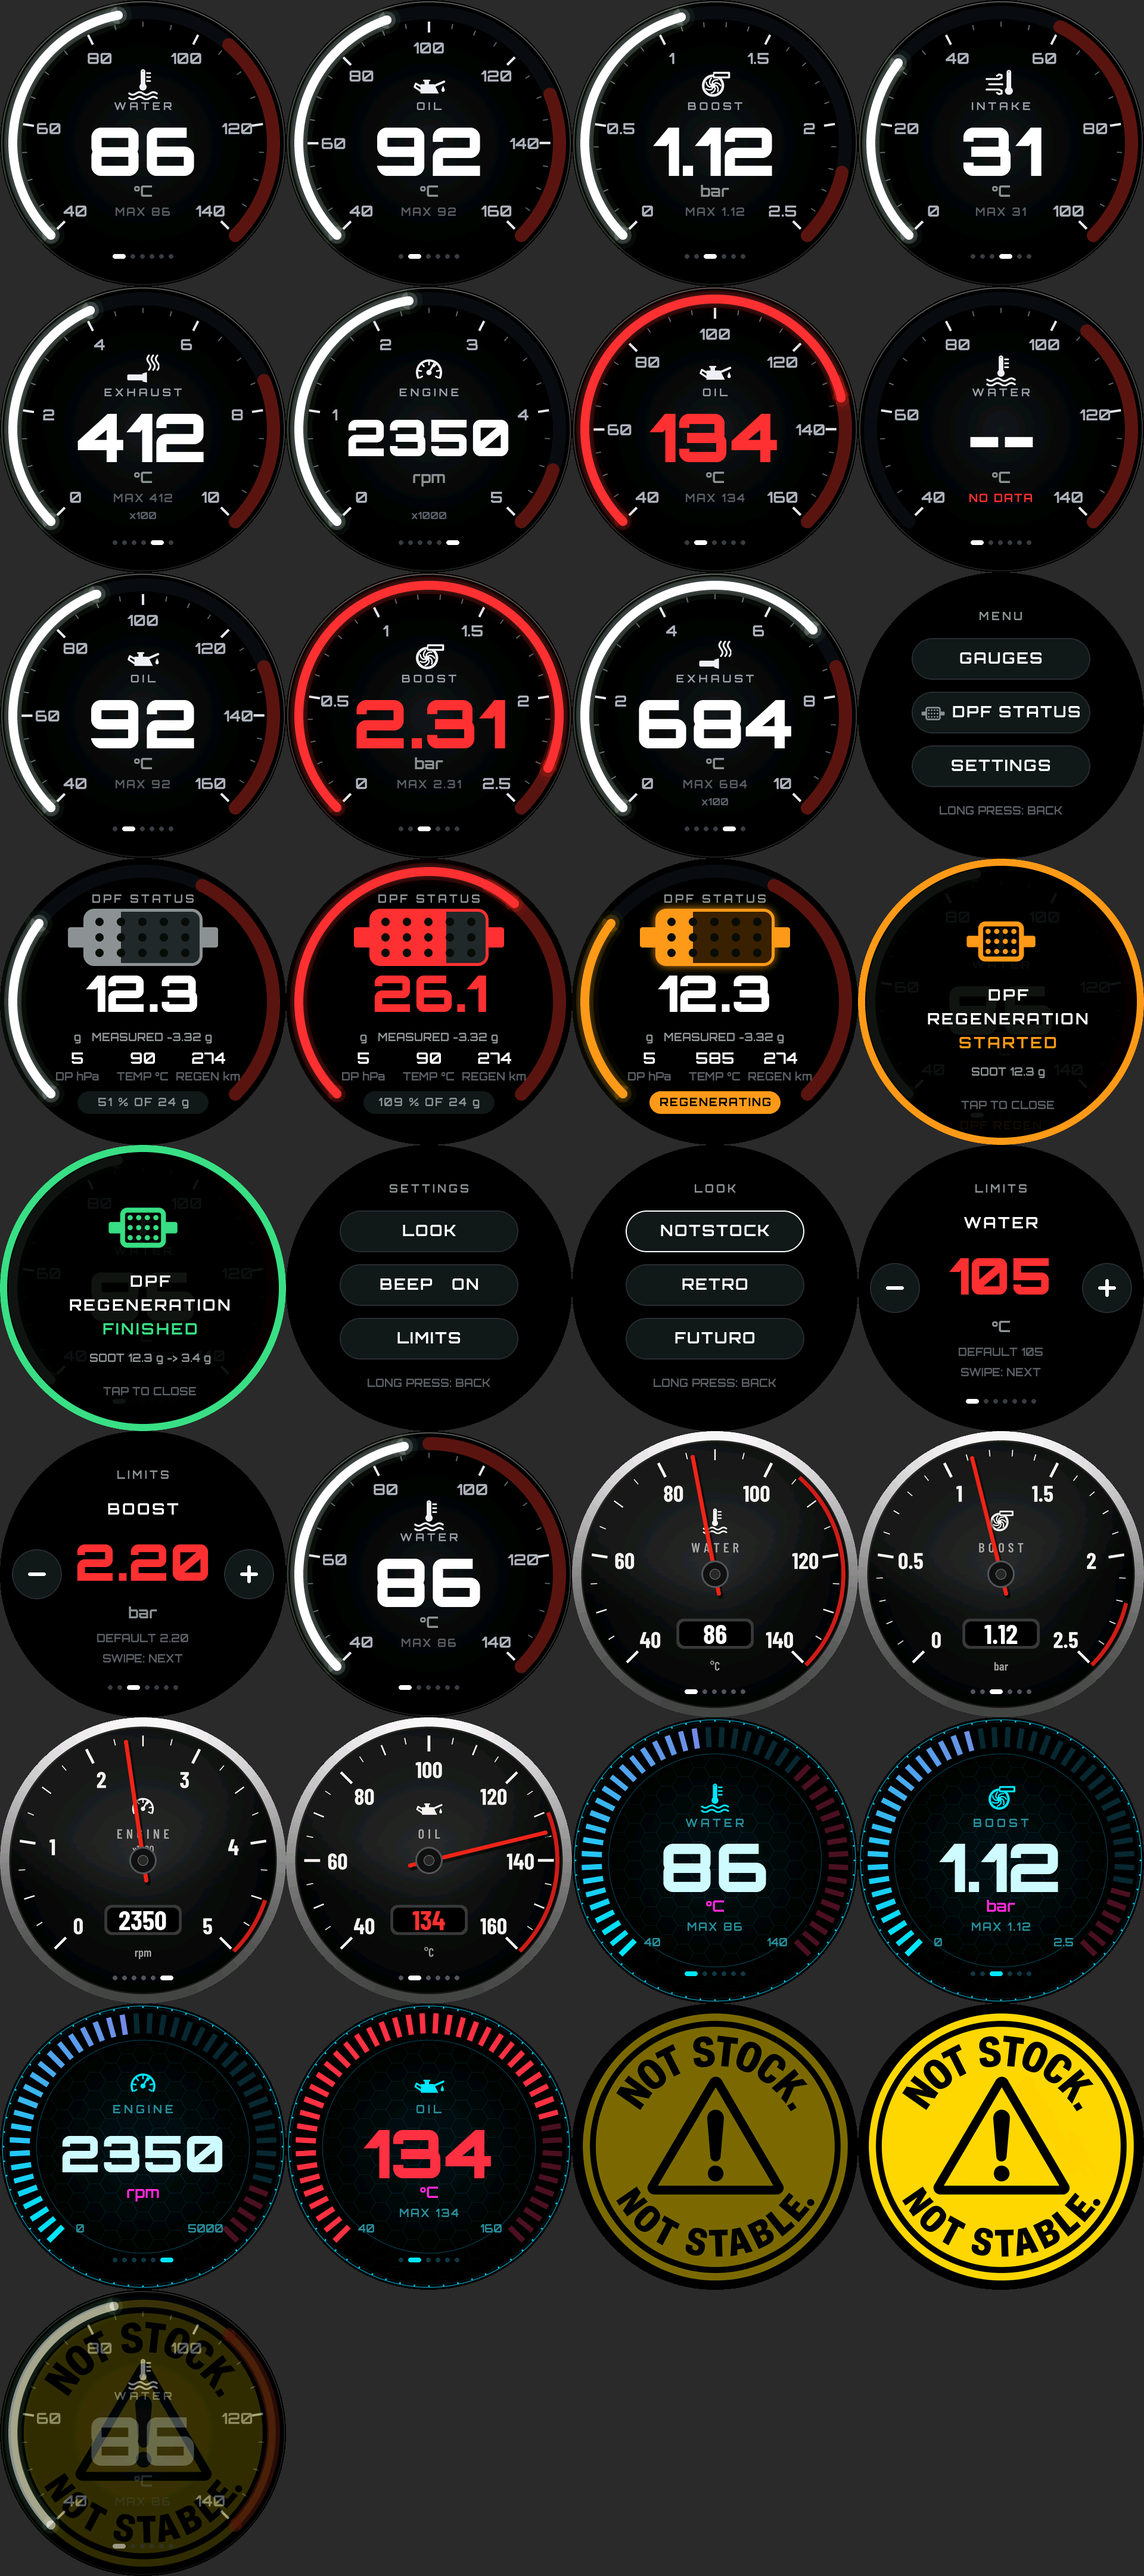
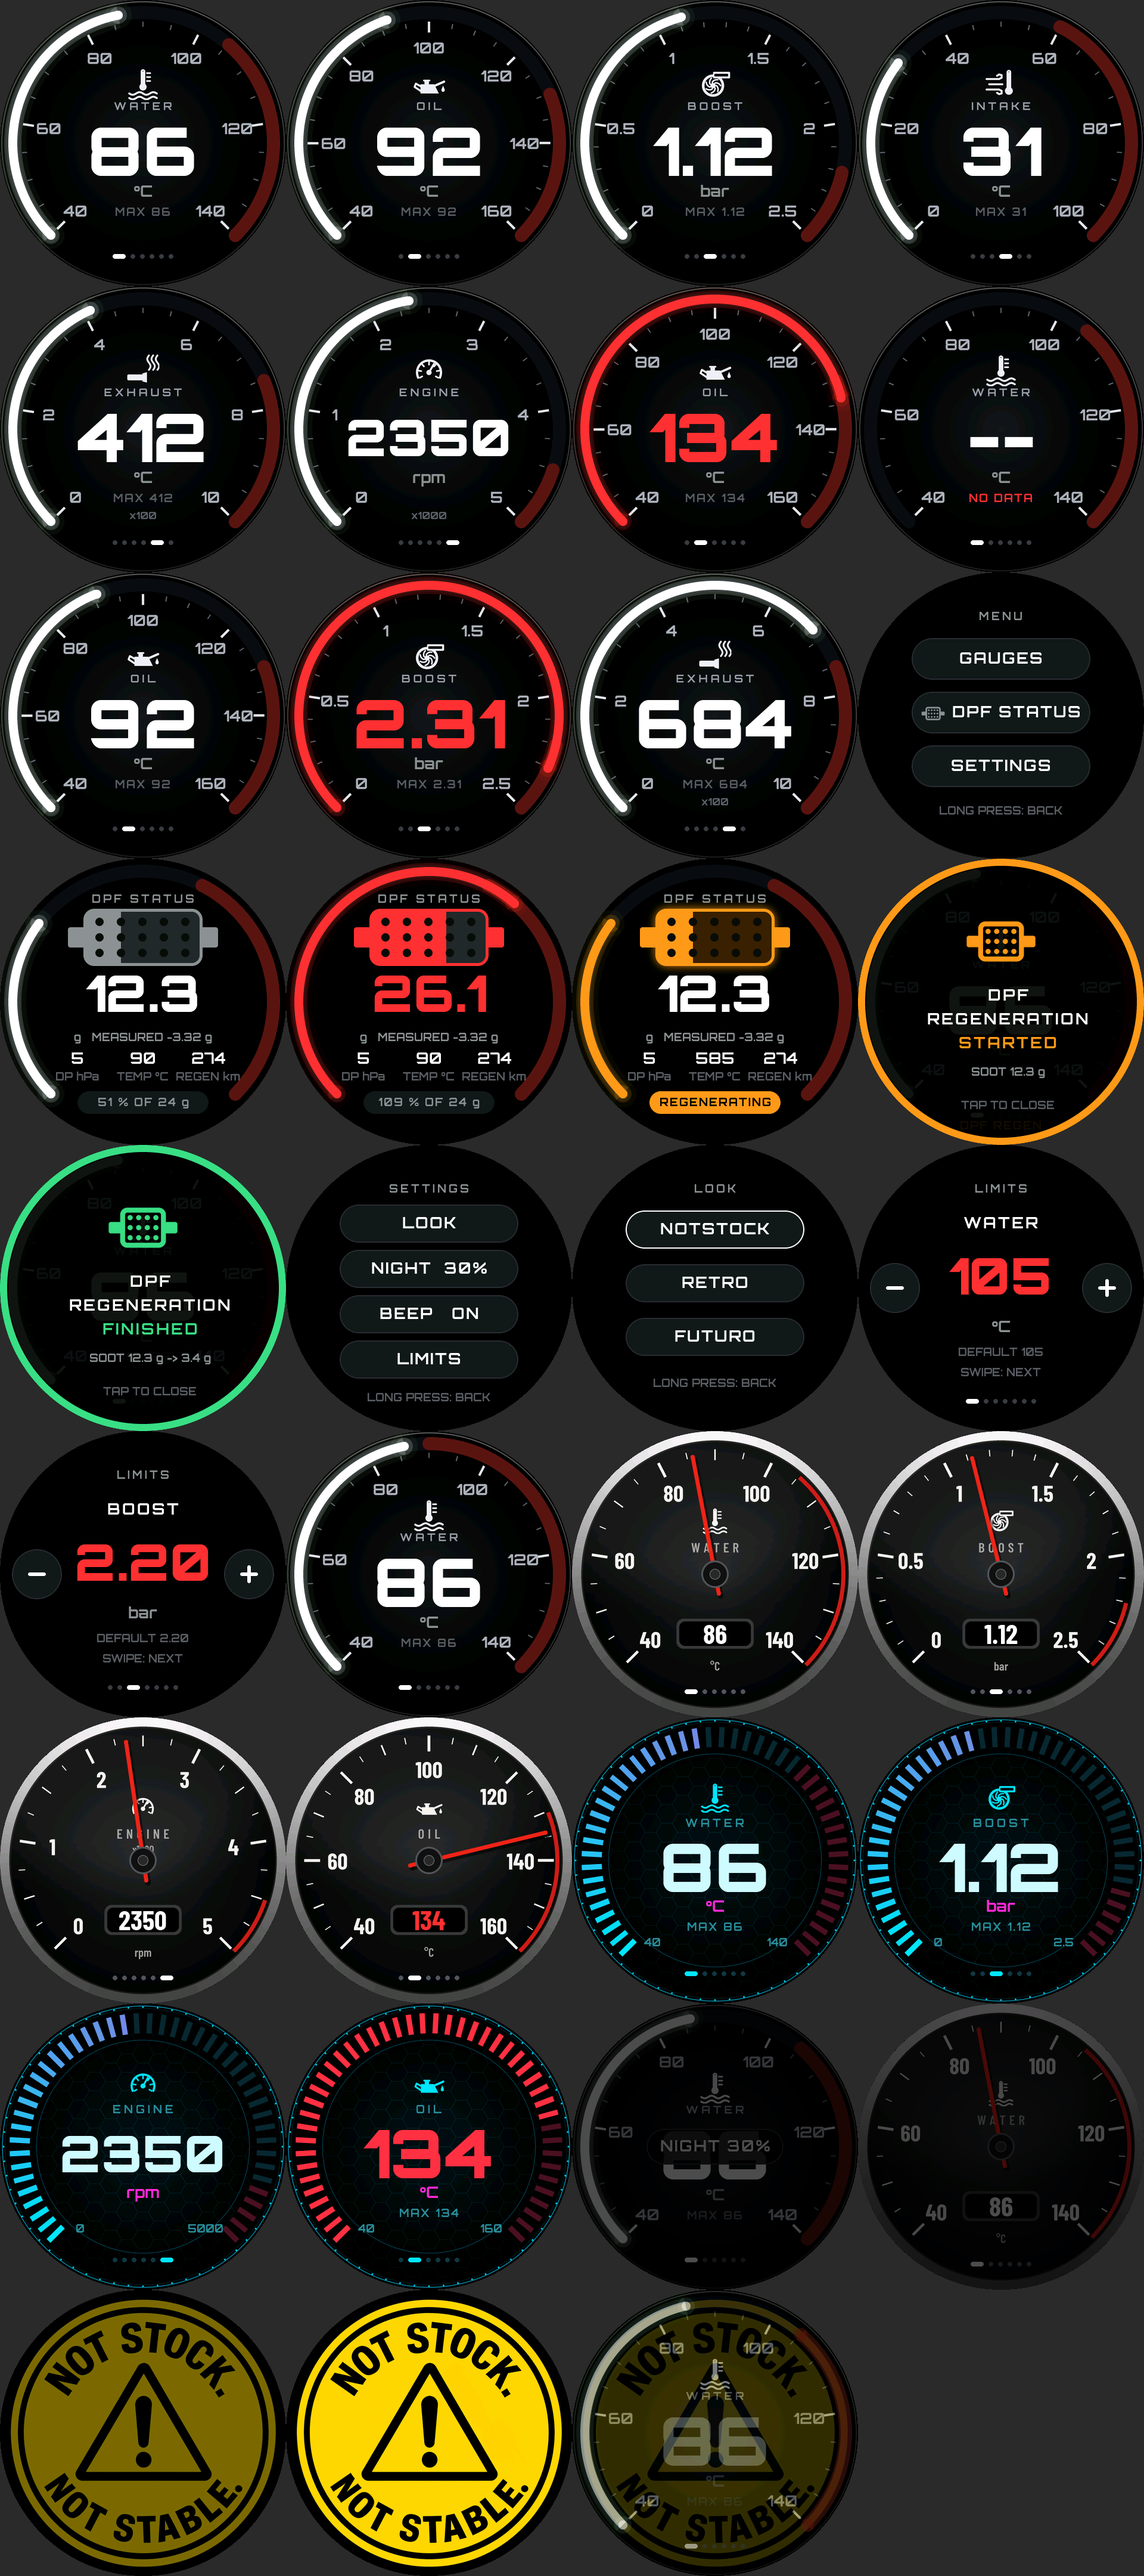
round gauge: double tap for night, NIGHT level in the settings
A double tap on the gauges or the DPF screen dims the backlight to the
night level and back, with a short NIGHT / DAY toast; a swipe never
counts as a tap. SETTINGS -> NIGHT steps the level 10..50 %. Both kept
in g_rnd_set; the backlight is the platform's rnd_backlight().

Claude-Session: https://claude.ai/code/session_018SKN4tJhAPpVCWtvRZgZpD

Changed region(s): [[0.0, 0.7812, 1.0, 1.0], [0.3125, 0.4688, 0.4375, 0.5625], [0.5938, 0.4688, 0.6562, 0.5312]]

diff --git a/dash/notstock-round/main/ui_round.c b/dash/notstock-round/main/ui_round.c
@@ -5,7 +5,8 @@
  *
  * Here: which page is shown, the value smoothed onto the scale (so after a
  * page change or at power-up the needle or arc sweeps up on its own), the
- * peaks, the swipes, the long press for the menu, and the boot logo.
+ * peaks, the swipes, the long press for the menu, the double tap for night
+ * and the boot logo.
  *
  * Boot: the NOT STOCK badge (tools/gen_splash.py) fades in on black, holds,
  * and cross-fades into the gauges, which sweep up as they come in.
@@ -230,9 +231,75 @@ void rnd_look_apply(void)
     ui_round_page(page);
 }
 
+/* ------------------------------------------------------------ day / night */
+static uint32_t last_tap, last_swipe;
+static lv_obj_t *toast, *toast_lbl;
+
+void rnd_backlight_apply(void)
+{
+    rnd_backlight(g_rnd_set.night ? g_rnd_set.night_level : 100);
+}
+
+void rnd_night_toggle(void)
+{
+    char buf[24];
+    g_rnd_set.night = !g_rnd_set.night;
+    rnd_backlight_apply();
+    rnd_settings_save();
+
+    if (!toast) {
+        toast = lv_obj_create(lv_layer_top());
+        lv_obj_remove_style_all(toast);
+        lv_obj_set_size(toast, 230, 60);
+        lv_obj_center(toast);
+        lv_obj_set_style_radius(toast, LV_RADIUS_CIRCLE, 0);
+        lv_obj_set_style_bg_color(toast, lv_color_black(), 0);
+        lv_obj_set_style_bg_opa(toast, LV_OPA_80, 0);
+        lv_obj_set_style_border_color(toast, C_EDGE, 0);
+        lv_obj_set_style_border_width(toast, 2, 0);
+        lv_obj_clear_flag(toast, LV_OBJ_FLAG_CLICKABLE | LV_OBJ_FLAG_SCROLLABLE);
+        toast_lbl = lv_label_create(toast);
+        lv_obj_set_style_text_font(toast_lbl, &rnd_26, 0);
+        lv_obj_set_style_text_color(toast_lbl, C_W, 0);
+        lv_obj_set_style_text_letter_space(toast_lbl, 2, 0);
+        lv_obj_center(toast_lbl);
+    }
+    if (g_rnd_set.night) {
+        snprintf(buf, sizeof buf, "NIGHT %d%%", g_rnd_set.night_level);
+    } else {
+        snprintf(buf, sizeof buf, "DAY");
+    }
+    lv_label_set_text(toast_lbl, buf);
+    lv_obj_set_style_opa(toast, LV_OPA_COVER, 0);
+    lv_obj_fade_out(toast, 400, 1000);
+}
+
+void rnd_swiped(void)
+{
+    last_swipe = lv_tick_get();
+    last_tap = 0;
+}
+
+void rnd_tap_cb(lv_event_t *e)
+{
+    (void)e;
+    /* the end of a swipe is no tap */
+    if (last_swipe && lv_tick_elaps(last_swipe) < 400) {
+        last_tap = 0;
+        return;
+    }
+    if (last_tap && lv_tick_elaps(last_tap) < 400) {
+        last_tap = 0;
+        rnd_night_toggle();
+    } else {
+        last_tap = lv_tick_get();
+    }
+}
+
 static void gesture_cb(lv_event_t *e)
 {
     (void)e;
+    rnd_swiped();
     lv_dir_t dir = lv_indev_get_gesture_dir(lv_indev_get_act());
     if (dir == LV_DIR_LEFT)  ui_round_page(page + 1);
     if (dir == LV_DIR_RIGHT) ui_round_page(page - 1);
@@ -252,6 +319,8 @@ void ui_round_create(bool boot_logo_on)
     lv_obj_clear_flag(scr, LV_OBJ_FLAG_SCROLLABLE);
     lv_obj_add_event_cb(scr, gesture_cb, LV_EVENT_GESTURE, NULL);
     lv_obj_add_event_cb(scr, long_cb, LV_EVENT_LONG_PRESSED, NULL);
+    lv_obj_add_event_cb(scr, rnd_tap_cb, LV_EVENT_SHORT_CLICKED, NULL);
+    rnd_backlight_apply();
 
     for (int i = 0; i < RND_COUNT; i++) peak[i] = NAN;
     look = NULL;

diff --git a/dash/notstock-round/main/ui_round_set.c b/dash/notstock-round/main/ui_round_set.c
@@ -1,7 +1,8 @@
 /* Round gauge UI: settings. See ui_round.h.
  *
- * SETTINGS (from the menu): LOOK, BEEP on / off (the regeneration beeps;
- * the popup comes either way), LIMITS. A long press goes one level back and
+ * SETTINGS (from the menu): LOOK, NIGHT (the backlight at night, the double
+ * tap's level; tap for the next step), BEEP on / off (the regeneration
+ * beeps; the popup comes either way), LIMITS. A long press goes one level back and
  * stores the settings.
  *
  * LIMITS: one warn limit at a time, big, with - and + either side (hold to
@@ -32,6 +33,8 @@ void rnd_settings_defaults(void)
     memset(&g_rnd_set, 0, sizeof g_rnd_set);
     g_rnd_set.look = RND_LOOK_NOTSTOCK;
     g_rnd_set.beep = true;
+    g_rnd_set.night = false;
+    g_rnd_set.night_level = 30;
     for (int i = 0; i < RND_WARN_COUNT; i++) {
         g_rnd_set.warn[i] = RND_LIMIT[i].def;
     }
@@ -56,7 +59,7 @@ static lv_obj_t *pill(lv_obj_t *par, lv_coord_t y, lv_event_cb_t cb,
 {
     lv_obj_t *b = lv_obj_create(par);
     lv_obj_remove_style_all(b);
-    lv_obj_set_size(b, 300, 70);
+    lv_obj_set_size(b, 300, 64);
     lv_obj_align(b, LV_ALIGN_TOP_MID, 0, y);
     lv_obj_set_style_radius(b, LV_RADIUS_CIRCLE, 0);
     lv_obj_set_style_bg_color(b, C_PANEL, 0);
@@ -77,7 +80,23 @@ static lv_obj_t *pill(lv_obj_t *par, lv_coord_t y, lv_event_cb_t cb,
 
 /* -------------------------------------------------------------- screens */
 static lv_obj_t *set_scr, *look_scr, *lim_scr;
-static lv_obj_t *beep_lbl, *look_pill[RND_LOOK_COUNT];
+static lv_obj_t *beep_lbl, *night_lbl, *look_pill[RND_LOOK_COUNT];
+
+static void show_night(void)
+{
+    char buf[24];
+    snprintf(buf, sizeof buf, "NIGHT  %d%%", g_rnd_set.night_level);
+    lv_label_set_text(night_lbl, buf);
+}
+
+static void night_step(lv_event_t *e)
+{
+    (void)e;
+    int l = g_rnd_set.night_level + 10;
+    g_rnd_set.night_level = (uint8_t)(l > 50 ? 10 : l);
+    if (g_rnd_set.night) rnd_backlight_apply();     /* see it change */
+    show_night();
+}
 
 static const char *const LOOK_NAME[RND_LOOK_COUNT] = {
     [RND_LOOK_NOTSTOCK] = "NOTSTOCK",
@@ -94,6 +113,7 @@ static void show_beep(void)
 void rnd_set_open(void)
 {
     show_beep();
+    show_night();
     lv_scr_load(set_scr);
 }
 
@@ -226,12 +246,13 @@ void rnd_set_create(void)
     lv_obj_t *l;
 
     set_scr = screen(set_back, "SETTINGS");
-    pill(set_scr, 110, go_look, &l);
+    pill(set_scr, 100, go_look, &l);
     lv_label_set_text(l, "LOOK");
-    pill(set_scr, 200, beep_toggle, &beep_lbl);
-    pill(set_scr, 290, go_limits, &l);
+    pill(set_scr, 176, night_step, &night_lbl);
+    pill(set_scr, 252, beep_toggle, &beep_lbl);
+    pill(set_scr, 328, go_limits, &l);
     lv_label_set_text(l, "LIMITS");
-    l = rnd_label(set_scr, &rnd_18, C_DIM, 390);
+    l = rnd_label(set_scr, &rnd_18, C_DIM, 414);
     lv_label_set_text(l, "LONG PRESS: BACK");
 
     look_scr = screen(sub_back, "LOOK");

diff --git a/dash/notstock-round/tools/sim/sim.c b/dash/notstock-round/tools/sim/sim.c
@@ -10,6 +10,8 @@
  *               [boot=1]            start with the logo; t= picks the moment
  *               [look=N]            RND_LOOK_*: 0 NOTSTOCK, 1 RETRO, 2 FUTURO
  *               [relook=N,M,...]    switch looks while running, as LOOK does
+ *               [dtap=N]            N double taps in the middle, then run t=
+ *               [night=1] [nightlvl=P]
  */
 #include <math.h>
 #include <stdio.h>
@@ -44,6 +46,13 @@ void rnd_beep(int n)
 void rnd_settings_save(void)
 {
     fprintf(stderr, "settings saved\n");
+}
+
+/* the backlight shows as darker pixels in the output */
+static int s_backlight = 100;
+void rnd_backlight(uint8_t percent)
+{
+    s_backlight = percent;
 }
 
 void rnd_sim_settings(const char *which, int limit);
@@ -82,6 +91,7 @@ int main(int argc, char **argv)
     const char *screen = NULL, *regen = NULL;
     int limit = 0, boot = 0;
     const char *relook = NULL;
+    int dtap = 0;
     rnd_settings_defaults();
     int page = 0;
     float t_end = 1.5f;
@@ -109,6 +119,9 @@ int main(int argc, char **argv)
         if (strcmp(k, "boot") == 0)  { boot = atoi(v); used = true; }
         if (strcmp(k, "look") == 0)  { g_rnd_set.look = (uint8_t)atoi(v); used = true; }
         if (strcmp(k, "relook") == 0) { relook = v; used = true; }
+        if (strcmp(k, "dtap") == 0)  { dtap = atoi(v); used = true; }
+        if (strcmp(k, "night") == 0) { g_rnd_set.night = atoi(v) != 0; used = true; }
+        if (strcmp(k, "nightlvl") == 0) { g_rnd_set.night_level = (uint8_t)atoi(v); used = true; }
         if (strcmp(k, "beep") == 0)  { g_rnd_set.beep = atoi(v) != 0; used = true; }
         if (strncmp(k, "warn", 4) == 0 && k[4] >= '0' && k[4] <= '9') {
             int n = atoi(k + 4);
@@ -167,6 +180,16 @@ int main(int argc, char **argv)
         q = strchr(q, ',');
         if (q) q++;
     }
+    for (int i = 0; i < dtap; i++) {
+        for (int k = 0; k < 2; k++) {       /* two short taps, 130 ms apart */
+            s_tx = W / 2;
+            s_ty = H / 2 + 40;
+            run(0.066f, &d);
+            s_tx = s_ty = -1;
+            run(0.066f, &d);
+        }
+        run(0.6f, &d);
+    }
     if (swipe) {
         /* a finger across the middle, then let the new page settle */
         int dir = strcmp(swipe, "left") == 0 ? -1 : 1;
@@ -195,6 +218,7 @@ int main(int argc, char **argv)
                 rgb[0] = (unsigned char)(c.ch.red << 3 | c.ch.red >> 2);
                 rgb[1] = (unsigned char)(c.ch.green << 2 | c.ch.green >> 4);
                 rgb[2] = (unsigned char)(c.ch.blue << 3 | c.ch.blue >> 2);
+                for (int k = 0; k < 3; k++) rgb[k] = rgb[k] * s_backlight / 100;
             }
             fwrite(rgb, 1, 3, f);
         }

diff --git a/dash/notstock-round/main/ui_round.h b/dash/notstock-round/main/ui_round.h
@@ -1,6 +1,7 @@
 /* Round gauge UI: one value at a time on a round panel, swipe left / right
  * for the next one. Long press anywhere: the menu (gauges, DPF status,
- * settings: look, beep on/off, warn limits).
+ * settings: look, night level, beep on/off, warn limits). Double tap: night
+ * (backlight down to the night level) and back to day.
  * A particulate filter regeneration pops up over whatever is shown, with a
  * beep. ESP-free, so tools/sim renders it on a PC.
  *
@@ -45,6 +46,8 @@ enum { RND_LOOK_NOTSTOCK, RND_LOOK_RETRO, RND_LOOK_FUTURO, RND_LOOK_COUNT };
 typedef struct {
     uint8_t look;                     /* RND_LOOK_* */
     bool    beep;                     /* beep on regeneration start / end */
+    bool    night;                    /* backlight at night_level */
+    uint8_t night_level;              /* % of full, 10..50 */
     float   warn[RND_WARN_COUNT];     /* red above this: pages, DPF soot g */
 } rnd_settings_t;
 
@@ -54,6 +57,7 @@ void rnd_settings_defaults(void);
 /* provided by the platform */
 void rnd_beep(int n);                 /* n short beeps, must not block */
 void rnd_settings_save(void);         /* store g_rnd_set */
+void rnd_backlight(uint8_t percent);  /* 0..100 */
 
 /* builds every screen; boot: the NOT STOCK logo first, fading in from black
  * and then into the gauges (RND_BOOT_MS in all), else the gauges at once */

diff --git a/dash/notstock-round/main/ui_round_dpf.c b/dash/notstock-round/main/ui_round_dpf.c
@@ -126,7 +126,7 @@ lv_obj_t *rnd_dpf_screen(void)
 
 static void dpf_gesture(lv_event_t *e)
 {
-    (void)e;
+    rnd_swiped();                 /* a swipe: no tap */
     lv_dir_t dir = lv_indev_get_gesture_dir(lv_indev_get_act());
     if (dir == LV_DIR_LEFT || dir == LV_DIR_RIGHT) go_gauges(NULL);
 }
@@ -177,6 +177,7 @@ void rnd_dpf_create(void)
     lv_obj_clear_flag(dpf, LV_OBJ_FLAG_SCROLLABLE);
     lv_obj_add_event_cb(dpf, dpf_gesture, LV_EVENT_GESTURE, NULL);
     lv_obj_add_event_cb(dpf, go_menu, LV_EVENT_LONG_PRESSED, NULL);
+    lv_obj_add_event_cb(dpf, rnd_tap_cb, LV_EVENT_SHORT_CLICKED, NULL);
 
     /* groove and red zone like the gauge faces, then the soot arc */
     ring(dpf, 0, FACE_SWEEP, lv_color_hex(0x0C0E11), FACE_GROOVE_W);

diff --git a/dash/notstock-round/main/ui_round_int.h b/dash/notstock-round/main/ui_round_int.h
@@ -85,6 +85,12 @@ void rnd_set_create(void);
 void rnd_set_open(void);
 void rnd_limits_changed(void);        /* redraw the zones */
 
+/* day / night: a double tap on the gauges or the DPF screen */
+void rnd_tap_cb(lv_event_t *e);           /* on LV_EVENT_SHORT_CLICKED */
+void rnd_swiped(void);                    /* from a gesture handler */
+void rnd_backlight_apply(void);           /* from g_rnd_set */
+void rnd_night_toggle(void);
+
 /* regeneration: popup, beep, and the flag the gauges show */
 #define REGEN_TEMP 400.0f    /* filter hotter than this: regenerating */
 void rnd_regen_watch(const rnd_data_t *d);

diff --git a/dash/notstock-round/tools/preview.py b/dash/notstock-round/tools/preview.py
@@ -45,6 +45,8 @@ SCENES = {
     "futuro-boost": "look=2 page=2",
     "futuro-rpm": "look=2 page=5",
     "futuro-oil-warn": "look=2 page=1 oil=134",
+    "night-toast": "dtap=1",
+    "night-retro": "look=1 night=1",
     "boot-in": "boot=1 t=0.6",
     "boot-logo": "boot=1 t=2.0",
     "boot-cross": "boot=1 t=3.2",

diff --git a/dash/notstock-round/README.md b/dash/notstock-round/README.md
@@ -1,7 +1,8 @@
 # NOT STOCK round gauge
 
 One value at a time on a round display, swipe left / right for the next: water, oil, boost, intake, exhaust, engine
-rpm. Long press anywhere for the menu: GAUGES, DPF STATUS, SETTINGS. Data comes over CAN the same way as on the 7" dash
+rpm. Long press anywhere for the menu: GAUGES, DPF STATUS, SETTINGS.
+Double tap: night (backlight down), double tap again: day. Data comes over CAN the same way as on the 7" dash
 (`../notstock-dash-7inch`: rusEFI broadcast, or OBD-II plus the VW UDS
 measuring values on a T5.1), through an SN65HVD230 board on two free GPIOs.
 
@@ -117,6 +118,10 @@ Menu -> SETTINGS (`ui_round_set.c`); a long press goes one level back and
 stores them (`rnd_settings_save()`, the platform's NVS).
 
 - **LOOK**: NOTSTOCK, RETRO, FUTURO.
+- **NIGHT 30 %**: the backlight at night, tap for the next step (10 to
+  50 %). Night itself is a double tap on the gauges or the DPF screen; a
+  toast says NIGHT 30 % or DAY for a second. Kept over power-off. The
+  backlight is the platform's `rnd_backlight()`.
 - **BEEP ON / OFF**: the regeneration beeps. The popup comes either way.
 - **LIMITS**: one warn limit at a time, - and + (hold to repeat), swipe for
   the next: water, oil, boost, intake, exhaust, engine rpm, DPF soot. A
